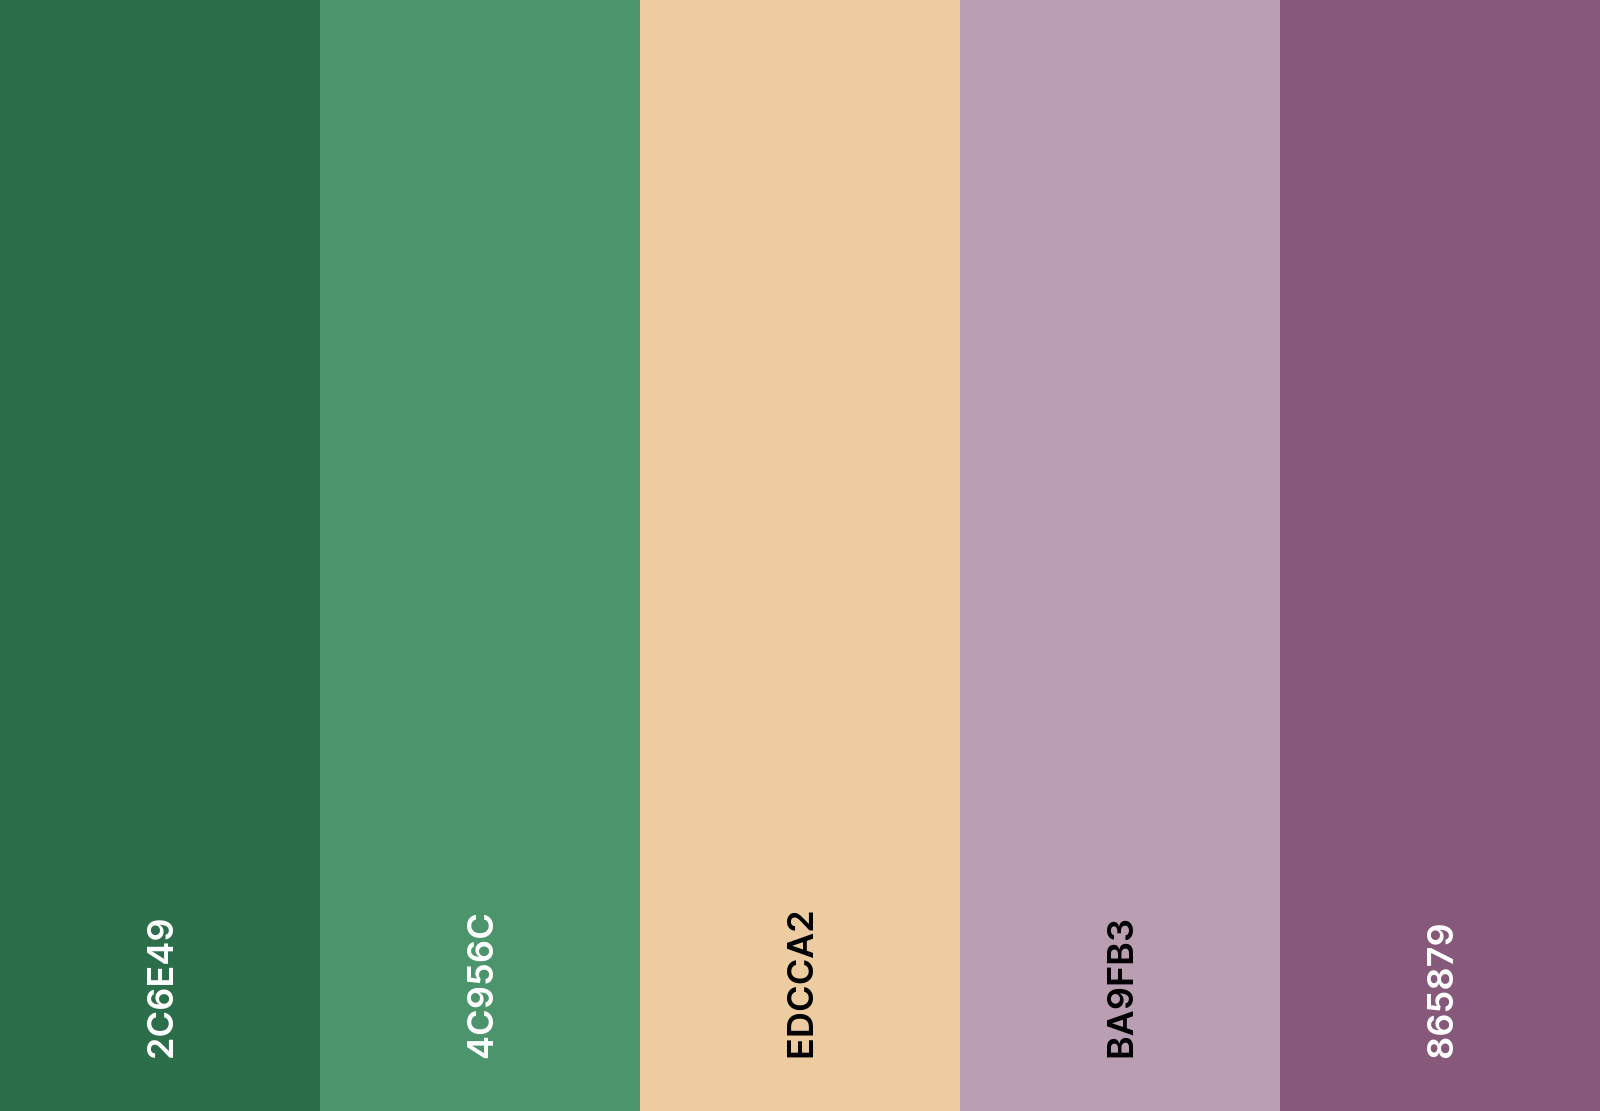
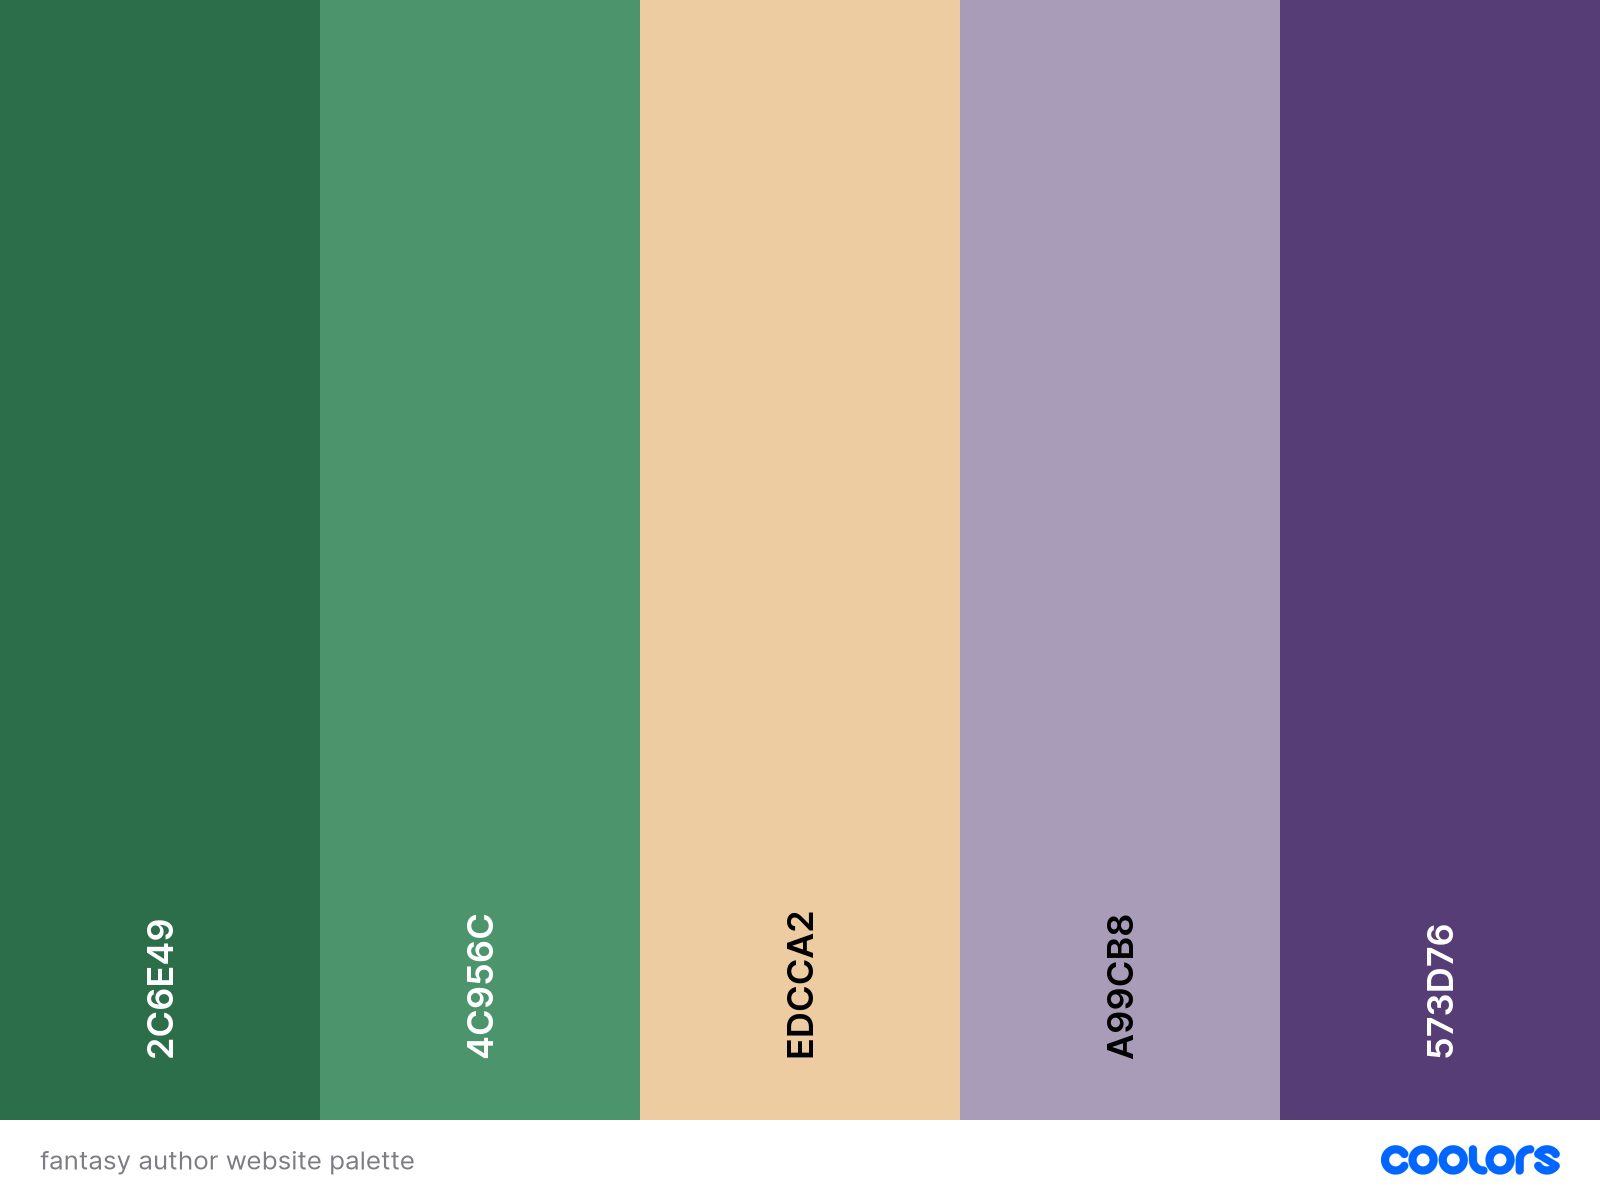
ADD: hero section, button component + styles, EDIT header style

Changed region(s): [[0.0, 0.0, 1.0, 1.0]]

diff --git a/src/components/NavBar/NavBar.jsx b/src/components/NavBar/NavBar.jsx
@@ -14,29 +14,29 @@ const NavBar = () => {
         <nav className={`container ${styles.navbar}`}>
             <ul className={`row ${styles.navLinks}`}>
                 <li className={styles.linkItem}>
-                    <NavLink to="/">Home</NavLink>
+                    <NavLink to="/">HOME</NavLink>
                 </li>
                 <li className={styles.linkItem}>
-                    <NavLink to="/about">L'autore</NavLink>
+                    <NavLink to="/about">L'AUTORE</NavLink>
                 </li>
                 <li className={styles.linkItem}>
-                    <NavLink to="/book">Il libro</NavLink>
+                    <NavLink to="/book">IL LIBRO</NavLink>
                 </li>
                 <li className={styles.linkItem} onMouseEnter={toggleDropdown} onMouseLeave={toggleDropdown}>
-                    <span>Extra &#9207;</span>
+                    <span>EXTRA &#9207;</span>
                     {isDropdownOpen && ( //se isDropdownOpen è true, allora appare ciò che è nelle parentesi. if non si può usare
                         <ul className={styles.dropdownMenu}>
                             <li>
-                                <NavLink to="/map" className={styles.dropdownLink}>Mappa</NavLink>
+                                <NavLink to="/map" className={styles.dropdownLink}>MAPPA</NavLink>
                             </li>
                             <li>
-                                <NavLink to="/characters" className={styles.dropdownLink}>Personaggi</NavLink>
+                                <NavLink to="/characters" className={styles.dropdownLink}>PERSONAGGI</NavLink>
                             </li>
                         </ul>
                     )}
                 </li>
                 <li className={styles.linkItem}>
-                    <NavLink to="/news">Eventi</NavLink>
+                    <NavLink to="/news">EVENTI</NavLink>
                 </li>
             </ul>
         </nav>

diff --git a/index.html b/index.html
@@ -5,11 +5,14 @@
   <meta charset="UTF-8" />
   <link rel="icon" type="image/svg+xml" href="/vite.svg" />
   <meta name="viewport" content="width=device-width, initial-scale=1.0" />
+
+  <!-- Fonts -->
   <link rel="preconnect" href="https://fonts.googleapis.com">
   <link rel="preconnect" href="https://fonts.gstatic.com" crossorigin>
   <link
-    href="https://fonts.googleapis.com/css2?family=League+Spartan:wght@100..900&family=Noto+Serif:ital,wght@0,100..900;1,100..900&display=swap"
+    href="https://fonts.googleapis.com/css2?family=Gabriela&family=Noto+Serif:ital,wght@0,100..900;1,100..900&display=swap"
     rel="stylesheet">
+
 
   <title>Fantasy writer website</title>
 </head>

diff --git a/src/components/Hero Section/Hero.module.scss b/src/components/Hero Section/Hero.module.scss
@@ -1,0 +1,28 @@
+@use '../../styles/partials/variables' as vars;
+
+.hero {
+    height: 100vh;
+    background: url(/public/fantasy\ wallpaper.webp) no-repeat center/cover;
+    display: flex;
+    align-items: center;
+    justify-content: center;
+    color: white;
+    text-align: center;
+}
+
+.heroTitle {
+    color: vars.$light-yellow;
+    font-size: 60px;
+    font-family: "Gabriela", serif;
+    text-shadow: 0 0 20px #000;
+    margin-bottom: 20px;
+}
+
+.heroSubtitle {
+    color: vars.$light-yellow;
+    font-size: 20px;
+    font-style: oblique;
+    font-family: "Noto Serif", serif;
+    text-shadow: 0 0 10px #000;
+    margin-bottom: 25px;
+}

diff --git a/src/components/Hero Section/Hero.jsx b/src/components/Hero Section/Hero.jsx
@@ -1,0 +1,19 @@
+import React from 'react';
+import styles from './Hero.module.scss';
+import Button from '../Button/button';
+
+const Hero = () => {
+
+    return (
+        <section className={styles.hero}>
+            <div className={'container'}>
+                <h1 className={styles.heroTitle}>Benvenuto in un mondo fantastico</h1>
+                <p className={styles.heroSubtitle}>Una meravigliosa avventura ti attende...</p>
+                <Button to="/books">Comincia il tuo viaggio</Button>
+            </div>
+        </section>
+    )
+
+}
+
+export default Hero

diff --git a/src/components/Header/Header.module.scss b/src/components/Header/Header.module.scss
@@ -2,15 +2,17 @@
 
 
 .pageHeader {
-    background-color: vars.$dark-purple;
-    padding-top: 20px;
-    padding-bottom: 20px;
+    position: fixed;
+    width: 100%;
+    background-color: rgba(vars.$dark-purple, 0.5);
+    padding-top: 15px;
+    padding-bottom: 15px;
     padding-left: 50px;
     padding-right: 50px;
 }
 
 .authorLogo {
-    max-width: 125px;
+    max-width: 120px;
 
 }
 

diff --git a/src/pages/Home/Home.jsx b/src/pages/Home/Home.jsx
@@ -1,12 +1,13 @@
 import React from 'react';
 import styles from './Home.module.scss';
+import Hero from '../../components/Hero Section/Hero'
 
 const Home = () => {
 
     return (
         <>
-            <div className={`container ${styles.home}`}>
-                <h1>HOME</h1>
+            <div>
+                <Hero />
             </div>
         </>
     )

diff --git a/src/components/Button/button.jsx b/src/components/Button/button.jsx
@@ -1,0 +1,14 @@
+import React from 'react';
+import { Link } from 'react-router-dom';
+import styles from './button.module.scss';
+
+const Button = ({ to, children }) => {
+
+    return (
+        <Link to={to} className={styles.button}>
+            {children}
+        </Link>
+    )
+}
+
+export default Button

diff --git a/src/components/NavBar/NavBar.module.scss b/src/components/NavBar/NavBar.module.scss
@@ -19,7 +19,7 @@
 
 .dropdownMenu {
     font-family: "Noto Serif", serif;
-    background-color: vars.$dark-purple;
+    background-color: rgba(vars.$dark-purple, 0.8);
     position: absolute;
     top: 100%;
     z-index: 10;

diff --git a/src/components/Button/button.module.scss b/src/components/Button/button.module.scss
@@ -1,0 +1,10 @@
+@use '../../styles/partials/variables' as vars;
+
+.button {
+
+    background-color: vars.$light-purple;
+    color: black;
+    font-family: "Noto Serif", serif;
+    padding: 10px;
+
+}

diff --git a/src/styles/partials/_variables.scss b/src/styles/partials/_variables.scss
@@ -1,5 +1,5 @@
-$dark-purple: #865879 !default;
-$light-purple: #ba9fb3;
+$dark-purple: #573D76 !default;
+$light-purple: #A99CB8;
 $light-yellow: #edcca2;
 $light-green: #4c956c;
 $dark-green: #2c6e49;
